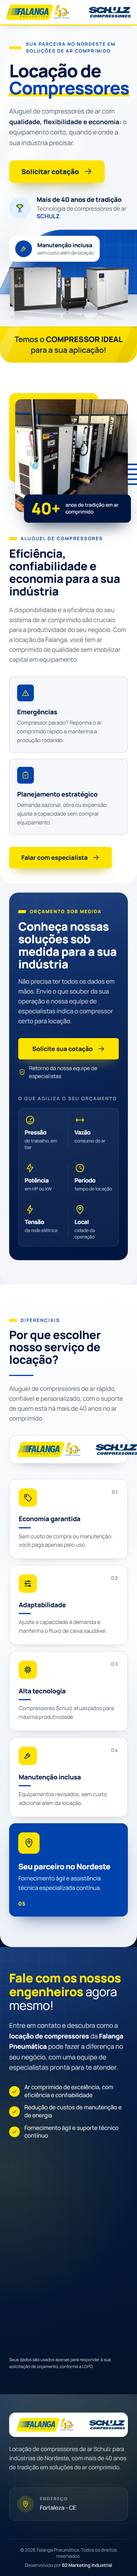
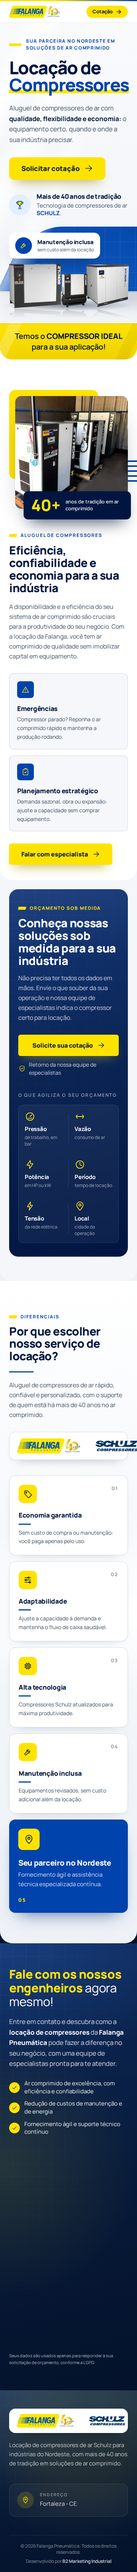
style: header no padrão das LPs Falanga e base de CTA, container e escala
Filete amarelo-azul, logo menor, tagline com selo, CTA cta-yellow e sombra ao rolar; sem logo Schulz no header. global.css ganha page-container, .cta, title-section, text-lead e tokens de azul.

diff --git a/src/styles/global.css b/src/styles/global.css
@@ -38,6 +38,11 @@
   --color-brand-dark: #00338a;
   --color-brand-yellow: #ffe300;
   --color-brand-yellow-dark: #f0d200;
+  /* Azul royal dos botões `cta-blue` e fundo dos quadrados de ícone (tokens das outras LPs Falanga). */
+  --color-brand-blue: #0043a1;
+  --color-brand-blue-dark: #00377f;
+  --color-brand-yellow-soft: #feedab;
+  --color-brand-mist: #ecf1f9;
 
   --container-page: 1320px;
 
@@ -71,6 +76,134 @@
 }
 
 /* Fundo navy com brilho radial: hero, painéis, bloco de diferenciais e footer. */
+/* Contêiner de toda seção, header e footer: 1450px, gutter de 24px (mobile) e 48px (desktop). */
+@utility page-container {
+  width: 100%;
+  max-width: var(--container-page);
+  margin-inline: auto;
+  padding-inline: 1.5rem;
+
+  @media (width >= 64rem) {
+    padding-inline: 3rem;
+  }
+}
+
+/* ---------------------------------------------------------------------------
+   Botões de CTA (padronizados em 23/10/2026): pílula, Manrope bold, seta à direita.
+   `cta-yellow` sobre navy e no header; `cta-blue` sobre fundo claro; `cta-sm` só no header.
+   Continuam <button type="button" class="btn-slave-whats"> com data-cta escrito à mão.
+   --------------------------------------------------------------------------- */
+@layer components {
+  .cta {
+    display: inline-flex;
+    flex-shrink: 0;
+    align-items: center;
+    justify-content: center;
+    gap: 0.75rem;
+    border-radius: 9999px;
+    padding: 1rem 2rem;
+    font-family: var(--font-sans);
+    font-size: 17px;
+    font-weight: 700;
+    line-height: 1.2;
+    white-space: nowrap;
+    transition:
+      background-color 0.2s ease,
+      transform 0.2s ease;
+
+    &:hover {
+      transform: translateY(-1px);
+    }
+
+    & > svg {
+      width: 1.25rem;
+      height: 1.25rem;
+      flex-shrink: 0;
+      stroke-width: 2.4;
+    }
+
+    @media (prefers-reduced-motion: reduce) {
+      transition: none;
+
+      &:hover {
+        transform: none;
+      }
+    }
+  }
+
+  .cta-yellow {
+    background-color: var(--color-brand-yellow);
+    color: var(--color-primary-dark-900);
+    box-shadow: 0 14px 30px -16px rgb(0 24 48 / 0.6);
+
+    &:hover {
+      background-color: var(--color-brand-yellow-dark);
+    }
+  }
+
+  .cta-blue {
+    background-color: var(--color-brand-blue);
+    color: var(--color-neutral-light);
+    box-shadow: 0 14px 30px -16px rgb(0 67 161 / 0.7);
+
+    &:hover {
+      background-color: var(--color-brand-blue-dark);
+    }
+  }
+
+  .cta-sm {
+    gap: 0.5rem;
+    padding: 0.5rem 1rem;
+    font-size: 13px;
+
+    & > svg {
+      width: 1rem;
+      height: 1rem;
+    }
+
+    @media (width >= 40rem) {
+      padding: 0.875rem 1.75rem;
+      font-size: 16px;
+
+      & > svg {
+        width: 1.25rem;
+        height: 1.25rem;
+      }
+    }
+  }
+}
+
+/* Escala única dos títulos de seção (H2), reduzida em 23/10/2026 para dar mais respiro:
+   30px no celular, 36px a partir de 640px, 40px a partir de 1024px e 44px a partir de 1280px. */
+@utility title-section {
+  font-size: 1.875rem;
+
+  @media (width >= 40rem) {
+    font-size: 2.25rem;
+  }
+
+  @media (width >= 64rem) {
+    font-size: 2.5rem;
+  }
+
+  @media (width >= 80rem) {
+    font-size: 2.75rem;
+  }
+}
+
+/* Texto descritivo abaixo dos títulos (padronizado e reduzido em 23/10/2026): 16px,
+   17px a partir de 1024px. */
+@utility text-lead {
+  font-size: 1rem;
+  line-height: 1.65;
+
+  @media (width >= 64rem) {
+    font-size: 1.0625rem;
+  }
+}
+
+/* Fundo navy com brilho radial: hero, painéis, bloco de diferenciais e footer. */
+
 @utility navy-premium {
   background-color: var(--color-primary-dark);
   background-image:

diff --git a/src/data/content.ts b/src/data/content.ts
@@ -33,21 +33,20 @@ export const cta = {
 /* ------------------------------------------------------------------ header */
 
 /**
- * Header claro: logo Falanga (com o selo de 40 anos), produto, selo regional e a marca
- * Schulz à direita — a mesma tecnologia que a LP antiga anuncia.
+ * Header no padrão das LPs Falanga: logo, tagline com selo e CTA. `partner` (logo Schulz)
+ * já não aparece aqui: só o rodapé ainda a usa, até o ponto do rodapé ser revisado.
  */
 export const header = {
   tagline: site.product,
-  badge: 'Sua parceira no Nordeste',
-  badgeSub: 'Assistência técnica especializada',
+  /** Rótulo do CTA do header no desktop (mesmo das outras LPs Falanga). */
+  cta: 'Fale com um especialista',
   partner: {
     src: schulz,
     alt: 'Schulz Compressores',
   },
 } as const satisfies {
   tagline: string
-  badge: string
-  badgeSub: string
+  cta: string
   partner: Photo
 }
 
